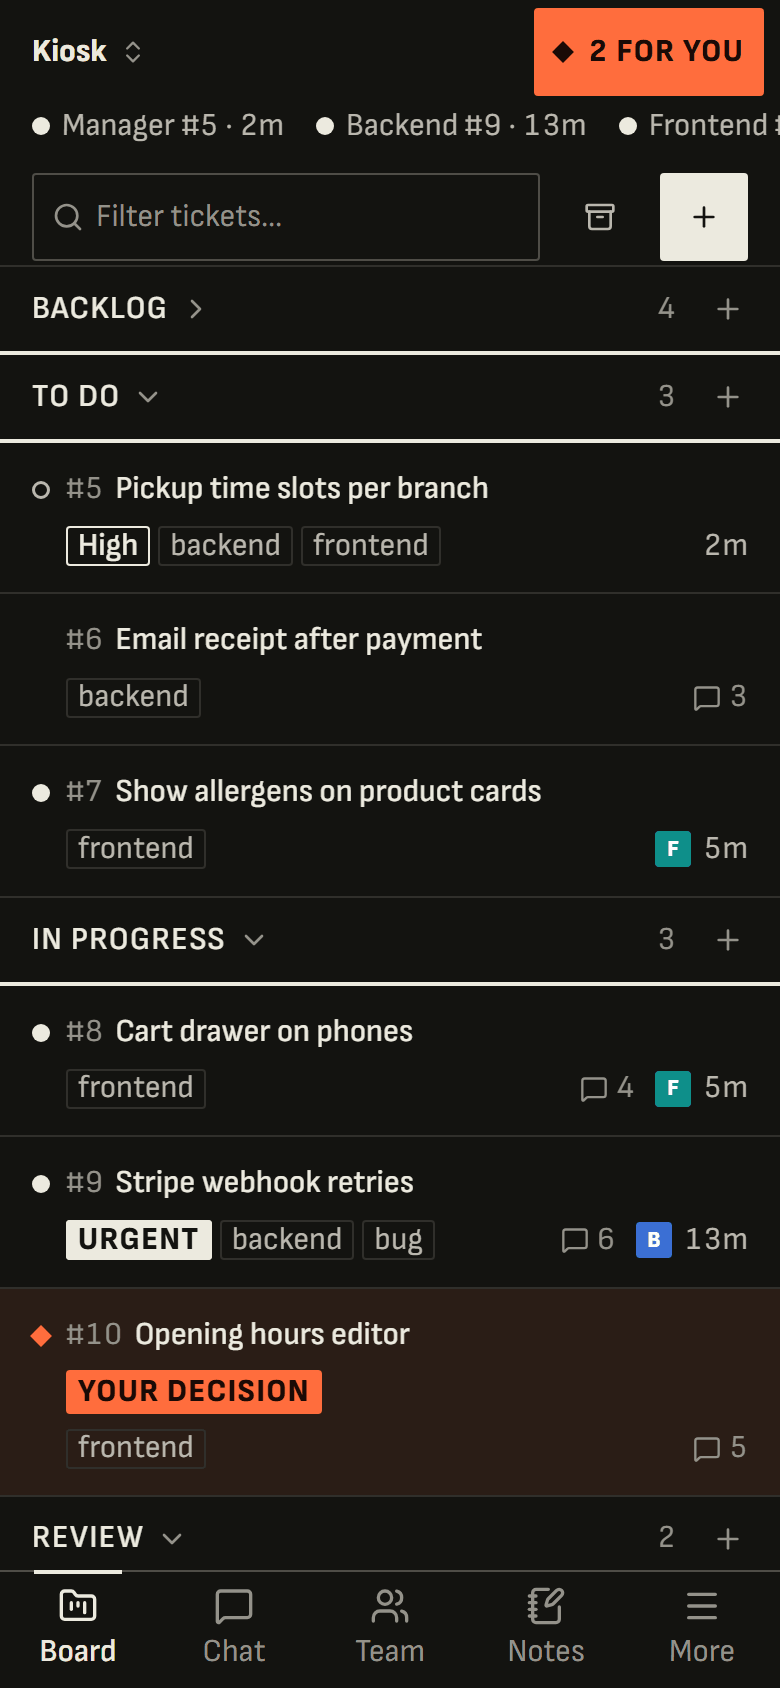
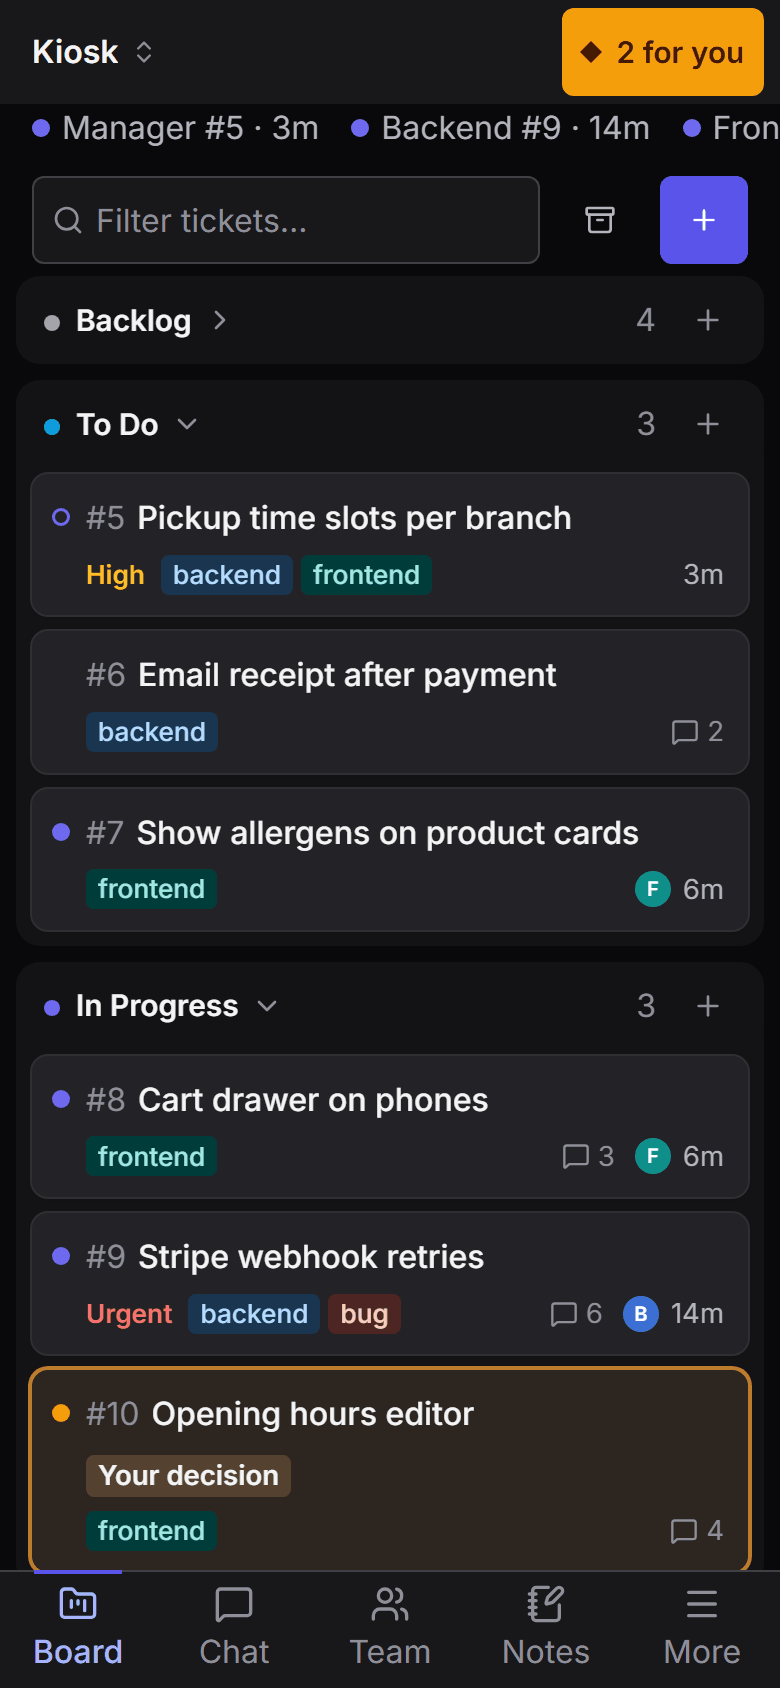
Show Classic in the README, and three small fixes
The README's pictures are retaken in the Classic design, which is the
default now; the scripts that make them are in scripts/screenshots.
Classic: the outline of the first ticket in a column is no longer cut off at
the top, and a status name is not shortened next to its count. Light or dark
follows the system until someone chooses in the picker. The repository
picker says why a repository of an organisation can be missing.

diff --git a/scripts/screenshots/_drive.html b/scripts/screenshots/_drive.html
@@ -1,0 +1,46 @@
+<!doctype html>
+<meta charset="utf-8">
+<style>html,body{margin:0;background:#000;height:100%}iframe{display:block;border:0}</style>
+<iframe id="f"></iframe>
+<script>
+// Screenshot driver for the throwaway demo instance: signs in, presets what the browser remembers,
+// opens the app in a frame and clicks through steps.
+const q = new URLSearchParams(location.search);
+localStorage.setItem("plainboard.design", q.get("design") || "classic");
+localStorage.setItem("plainboard.appearance", q.get("theme") === "light" ? "light" : "dark");
+localStorage.setItem("plainboard.view", JSON.stringify(q.get("view") || "board"));
+localStorage.setItem("plainboard.chatOpen", JSON.stringify(q.get("panel") !== "0"));
+localStorage.setItem("plainboard.chatDetails", JSON.stringify(q.get("details") === "1"));
+localStorage.setItem("plainboard.panelWidth", q.get("pw") || "400");
+localStorage.setItem("plainboard.chatAgent.1", q.get("agent") || "1");
+localStorage.setItem("plainboard.project", "1");
+localStorage.removeItem("plainboard.boardShut");
+const f = document.getElementById("f");
+f.style.width = q.get("w") ? q.get("w") + "px" : "100vw";
+f.style.height = q.get("h") ? q.get("h") + "px" : "100vh";
+const steps = JSON.parse(q.get("steps") || "[]");
+const sleep = (ms) => new Promise((r) => setTimeout(r, ms));
+f.onload = async () => {
+  // The demo instance has no runner: its warning is not part of the picture.
+  const st = f.contentDocument.createElement("style");
+  st.textContent = '[title="Runner not reachable"]{display:none!important}';
+  f.contentDocument.head.appendChild(st);
+  await sleep(2500);
+  for (const s of steps) {
+    const d = f.contentDocument;
+    let el = null;
+    if (s.c) el = d.querySelectorAll(s.c)[s.i || 0];
+    else {
+      const all = [...d.querySelectorAll("button,article,a,[role=menuitem],[role=option],li,label")];
+      const hits = all.filter((e) => e.textContent.trim() === s.t);
+      el = (hits.length ? hits : all.filter((e) => e.textContent.includes(s.t)).sort((a, b) => a.textContent.length - b.textContent.length))[s.i || 0];
+    }
+    if (el) el.click();
+    else document.title = "missing " + JSON.stringify(s);
+    await sleep(s.w || 900);
+  }
+};
+fetch("/api/auth/login", { method: "POST", headers: { "Content-Type": "application/json" }, body: JSON.stringify({ username: "demo", password: "demo-demo-demo" }) }).then(() => {
+  f.src = "/";
+});
+</script>

diff --git a/frontend/src/lib/theme.ts b/frontend/src/lib/theme.ts
@@ -27,7 +27,6 @@ export interface Look {
 
 const DESIGN_KEY = "plainboard.design";
 const APPEARANCE_KEY = "plainboard.appearance";
-const LEGACY_THEME_KEY = "plainboard.theme"; // "carbon" | "stone", from before designs existed
 const listeners = new Set<() => void>();
 const systemDark = () => window.matchMedia("(prefers-color-scheme: dark)");
 
@@ -36,11 +35,11 @@ function storedDesign(): DesignId {
   return DESIGNS.some((d) => d.id === value) ? (value as DesignId) : DESIGNS[0].id;
 }
 
+/** What the user chose in the picker; until then the system decides. (An old key, "plainboard.theme",
+ * was written by itself before designs existed and says nothing about a choice: it is not read.) */
 function storedAppearance(): Appearance {
   const value = localStorage.getItem(APPEARANCE_KEY);
-  if (APPEARANCES.includes(value as Appearance)) return value as Appearance;
-  const legacy = localStorage.getItem(LEGACY_THEME_KEY);
-  return legacy === "carbon" ? "dark" : legacy === "stone" ? "light" : "system";
+  return APPEARANCES.includes(value as Appearance) ? (value as Appearance) : "system";
 }
 
 let look: Look = read();

diff --git a/frontend/index.html b/frontend/index.html
@@ -17,11 +17,9 @@
         var themes = { fahrplan: ["carbon", "stone"], classic: ["classic-dark", "classic-light"] };
         var design = localStorage.getItem("plainboard.design");
         if (!themes[design]) design = "classic";
+        // Light or dark: what was chosen in the picker, else as the system.
         var mode = localStorage.getItem("plainboard.appearance");
-        if (mode !== "dark" && mode !== "light") {
-          var legacy = localStorage.getItem("plainboard.theme");
-          mode = mode !== "system" && legacy === "carbon" ? "dark" : mode !== "system" && legacy === "stone" ? "light" : matchMedia("(prefers-color-scheme: dark)").matches ? "dark" : "light";
-        }
+        if (mode !== "dark" && mode !== "light") mode = matchMedia("(prefers-color-scheme: dark)").matches ? "dark" : "light";
         document.documentElement.dataset.design = design;
         document.documentElement.dataset.theme = themes[design][mode === "dark" ? 0 : 1];
       })();

diff --git a/frontend/src/designs/classic.css b/frontend/src/designs/classic.css
@@ -319,6 +319,11 @@
   margin-inline: 0;
   padding-inline: 14px 6px;
 }
+[data-design="classic"] [data-part="column-head"] > .w-7 {
+  width: auto;
+  min-width: 1ch;
+  padding-left: 4px;
+}
 [data-design="classic"] [data-part="column-head"] h2::before {
   content: "";
   display: inline-block;
@@ -341,7 +346,9 @@
   background: #10b981;
 }
 [data-design="classic"] [data-part="column-body"] {
-  padding: 0 8px;
+  /* A card's outline is drawn outside of it (up to 2px for one that waits for you), and the body
+     clips what scrolls: room at the top, or the first card's outline is cut off. */
+  padding: 3px 8px 0;
   border-radius: var(--radius-xl);
 }
 [data-design="classic"] [data-part="column-body"][data-over] {

diff --git a/frontend/src/features/projects/GitHubRepoPicker.tsx b/frontend/src/features/projects/GitHubRepoPicker.tsx
@@ -123,6 +123,10 @@ export function GitHubRepoPicker({
             })}
             {visible.length === 0 && <li className="px-3 py-4 text-center text-fg-3">{t("projects.noGithubMatches")}</li>}
           </ul>
+          <details className="text-fg-3">
+            <summary className="cursor-pointer">{t("projects.githubMissing")}</summary>
+            <p className="pt-1">{t("projects.githubMissingHint")}</p>
+          </details>
         </>
       )}
       <div className="flex gap-2">

diff --git a/scripts/screenshots/seed_db.py b/scripts/screenshots/seed_db.py
@@ -1,0 +1,82 @@
+"""Runs inside the throwaway container after seed.py: the example project as it looks mid-work,
+for the README screenshots. Nothing here starts an agent."""
+import json, sqlite3, time
+from datetime import datetime, timedelta
+
+c = sqlite3.connect("/data/plainboard.db")
+now = datetime.utcnow()
+ts = lambda minutes: (now - timedelta(minutes=minutes)).strftime("%Y-%m-%d %H:%M:%S.%f")
+cols = lambda t: [r[1] for r in c.execute(f"pragma table_info({t})")]
+
+def insert(table, **values):
+    keys = [k for k in values if k in cols(table)]
+    cur = c.execute(f"insert into {table} ({','.join(keys)}) values ({','.join('?' for _ in keys)})", [values[k] for k in keys])
+    return cur.lastrowid
+
+c.execute("update projects set label_colors=? where id=1", (json.dumps({"backend": "blue", "frontend": "teal", "content": "amber", "bug": "red", "infra": "gray"}),))
+status = {5: "todo", 6: "todo", 7: "todo", 8: "in_progress", 9: "in_progress", 10: "in_progress", 11: "review", 12: "review", 13: "done", 14: "done", 15: "done"}
+for tid, s in status.items():
+    c.execute("update tasks set status=?, position=? where id=?", (s, tid * 1024, tid))
+c.execute("update tasks set user_action=? where id=11", ("Add the search key under Project settings, Secrets, then tell the manager.",))
+c.execute("update tasks set customer_title=? where id in (12, 14)", ("Order confirmation",))
+insert("decisions", project_id=1, task_id=10, requested_by_agent_id=3, question="Which layout for the week view?", details="Both variants are built; screenshots are attached to the ticket.",
+       options=json.dumps([{"label": "One row per day", "description": "Times as a list, compact on phones."}, {"label": "Calendar grid", "description": "Drag to set a range."}]),
+       attachment_ids="[]", status="open", answer_text="", answered_by="", created_at=ts(9), updated_at=ts(9))
+notes = ["Checked against the staging data, looks right. One open point: the **timeout** is still 5 s.", "Handed over, landed with the 14:10 train after one check run.", "Covered by a test now; the old one only checked the happy path."]
+for tid, n in [(3, 1), (6, 2), (8, 3), (9, 6), (10, 4), (12, 2), (13, 5)]:
+    for i in range(n):
+        insert("comments", task_id=tid, author_kind="user" if i % 3 == 2 else "agent", author_agent_id=None if i % 3 == 2 else 2 + i % 2,
+               body=notes[i % 3], content=notes[i % 3], created_at=ts(60 - i))
+
+# Running turns: Backend on #9 for 12 minutes, Frontend on #8 for 4, the manager plans #5.
+runs = {}
+for agent, task, minutes in [(2, 9, 12), (3, 8, 4), (1, 5, 1)]:
+    runs[agent] = insert("runs", project_id=1, agent_id=agent, trigger="ticket" if agent == 1 else "assignment", status="running", input_text="", task_id=task,
+           input_tokens=0, output_tokens=0, cache_read_tokens=0, cache_creation_tokens=0, cost_usd=0, num_turns=0, context_tokens=48000 if agent == 1 else 12000,
+           created_at=ts(minutes), started_at=ts(minutes), attachment_ids="[]")
+
+def assignment(task, agent, title, status, minutes, finished=None):
+    insert("assignments", project_id=1, task_id=task, agent_id=agent, created_by_agent_id=1, title=title, instructions=title + ".", status=status,
+           run_id=runs.get(agent) if status == "running" else None, created_at=ts(minutes), updated_at=ts(finished if finished is not None else minutes),
+           finished_at=None if finished is None else ts(finished), result=None if finished is None else "Done, handed over.")
+
+assignment(9, 2, "Retry failed Stripe webhooks with backoff", "running", 12)
+assignment(8, 3, "Cart drawer on phones", "running", 4)
+assignment(7, 3, "Show allergens on product cards", "queued", 3)
+assignment(13, 2, "Login with magic link", "done", 95, 41)
+assignment(14, 3, "Order confirmation page", "done", 120, 66)
+assignment(15, 4, "Set up the CI check command", "done", 200, 150)
+
+conv = c.execute("select id from conversations where agent_id=1").fetchone()
+conv_id = conv[0] if conv else insert("conversations", agent_id=1, context_tokens=48000, summary="", compressions=0, total_input_tokens=0, total_output_tokens=0, total_cost_usd=0, updated_at=ts(120), session_base_tokens=0, system_prompt="", prompt_sections="{}", session_sections="{}", session_cost_usd=0)
+msgs = [
+    ("user", "text", "Customers should be able to pick a pickup time when they order. Each branch has its own opening hours.", {"trigger": "chat"}, 40),
+    ("assistant", "text", "I split this into two tickets: #10 Opening hours editor and #5 Pickup time slots per branch. #10 goes first because the slots depend on it. Frontend starts on the editor now.", {}, 39),
+    ("user", "text", "", {"trigger": "wake", "inbox": ["Backend handed over #13 Login with magic link. Landed after one check run."]}, 22),
+    ("assistant", "text", "#13 Login with magic link has landed, so I moved it to Done. Backend continues with #9: the Stripe webhook retries are urgent because two orders were not marked as paid yesterday.", {}, 21),
+    ("assistant", "text", "Frontend has two layouts for the week view of #10 and needs your call. Both screenshots are on the ticket.\n\n- **A** One row per day, times as a list\n- **B** Calendar grid, drag to set a range", {}, 12),
+    ("user", "text", "B, but keep it to one screen on phones.", {"trigger": "chat"}, 9),
+    ("assistant", "text", "Recorded on #10: calendar grid, one screen on phones. Frontend continues with that. #11 still waits for the search key from you.", {}, 9),
+]
+for role, kind, content, meta, minutes in msgs:
+    insert("messages", conversation_id=conv_id, role=role, kind=kind, content=content, meta=json.dumps(meta), created_at=ts(minutes))
+
+# Two subscriptions with their plan limits, so the usage rings show.
+c.execute("delete from accounts")
+for provider, label, key, mode in [("claude_code", "Claude Max", "demo-claude", "oauth_token"), ("codex", "ChatGPT Pro", "demo-codex", "chatgpt")]:
+    insert("accounts", provider=provider, label=label, key=key, auth_mode=mode, secret_enc=None, enabled=1, created_at=ts(5000), updated_at=ts(5000))
+t = int(time.time())
+day = 86400
+def growth(name, peak, per_day):
+    days = {(now - timedelta(days=n)).date().isoformat(): per_day for n in range(0, 5)}
+    return {name: {"peak": peak, "days": days}}
+limits = {"accounts": {
+    "demo-claude": {"windows": {"seven_day": {"name": "seven_day", "utilization": 0.46, "resets_at": t + 3 * day, "status": None, "seen_at": t - 120},
+                                "seven_day_sonnet": {"name": "seven_day_sonnet", "utilization": 0.12, "resets_at": t + 3 * day, "status": None, "seen_at": t - 120}},
+                    "growth": {**growth("seven_day", 0.46, 0.11), **growth("seven_day_sonnet", 0.12, 0.03)}, "updated_at": t - 120},
+    "demo-codex": {"windows": {"codex_seven_day": {"name": "codex_seven_day", "utilization": 0.78, "resets_at": t + 2 * day, "status": None, "seen_at": t - 300}},
+                   "growth": growth("codex_seven_day", 0.78, 0.14), "updated_at": t - 300},
+}}
+c.execute("insert or replace into settings (key, value, secret) values ('provider_limits', ?, 0)", (json.dumps(limits),))
+c.commit()
+print("seeded; conversation", conv_id, "accounts", c.execute("select id, provider, label, auth_mode from accounts").fetchall())

diff --git a/scripts/screenshots/drive.py b/scripts/screenshots/drive.py
@@ -1,0 +1,66 @@
+"""The README's screenshots: a throwaway instance with an example project, photographed with
+headless Chrome. Nothing here starts an agent or touches a real installation.
+
+    docker compose build app
+    docker run -d --name pb-demo -p 18081:8080 -e PLAINBOARD_RUNNER_URL=http://127.0.0.1:9 plainboard-app
+    python scripts/screenshots/seed_api.py http://localhost:18081          # project, agents, tickets
+    docker cp scripts/screenshots/seed_db.py pb-demo:/tmp/ && docker exec pb-demo python /tmp/seed_db.py
+    docker cp scripts/screenshots/_drive.html pb-demo:/app/static/         # what running turns look like
+    python scripts/screenshots/drive.py http://localhost:18081 <out folder> [name ...]
+    docker rm -f pb-demo
+
+Desktop: 1440x900 at 2x. Phone: 390x844 at 2x. Both in the Classic design, dark and light. The
+pictures in docs/screenshots are these, reduced to 256 colours (Pillow: quantize, no dither).
+Needs Chrome at the path below and ffmpeg."""
+import json
+import os
+import subprocess
+import sys
+import tempfile
+import urllib.parse
+
+CHROME = r"C:\Program Files\Google\Chrome\Application\chrome.exe"
+PROFILE = os.path.join(tempfile.gettempdir(), "plainboard-screenshots-profile")  # a browser profile of its own, outside the repository
+BASE, OUT = sys.argv[1].rstrip("/"), sys.argv[2]
+ONLY = sys.argv[3:]
+os.makedirs(OUT, exist_ok=True)
+
+TICKET = [{"t": "Opening hours editor"}]
+SHOTS = []
+for theme in ("dark", "light"):
+    SHOTS += [
+        dict(name=f"board-{theme}", kind="desktop", theme=theme, view="board", steps=[]),
+        dict(name=f"chat-{theme}", kind="desktop", theme=theme, view="chat", steps=[]),
+        dict(name=f"ticket-{theme}", kind="desktop", theme=theme, view="board", steps=TICKET, panel="0"),
+        dict(name=f"phone-board-{theme}", kind="phone", theme=theme, view="board", steps=[]),
+        dict(name=f"phone-chat-{theme}", kind="phone", theme=theme, view="chat", steps=[]),
+        dict(name=f"phone-ticket-{theme}", kind="phone", theme=theme, view="board", steps=TICKET),
+    ]
+
+
+def shot(name, kind, theme, view, steps, panel="1"):
+    q = {"theme": theme, "design": "classic", "view": view, "steps": json.dumps(steps), "panel": panel}
+    size = "1440,900"
+    if kind == "phone":
+        q.update(w="390", h="844")
+        size = "700,844"
+    url = BASE + "/_drive.html?" + urllib.parse.urlencode(q)
+    target = os.path.join(OUT, name + ".png")
+    budget = str(9000 + 1200 * len(steps))
+    subprocess.run(
+        [CHROME, "--headless=new", "--disable-gpu", "--hide-scrollbars", "--lang=en-US", "--accept-lang=en-US", "--force-device-scale-factor=2", f"--window-size={size}",
+         f"--virtual-time-budget={budget}", f"--user-data-dir={PROFILE}", f"--screenshot={target}", url],
+        stdout=subprocess.DEVNULL, stderr=subprocess.DEVNULL, timeout=180,
+    )
+    if kind == "phone":
+        tmp = target + ".tmp.png"
+        os.replace(target, tmp)
+        subprocess.run(["ffmpeg", "-y", "-loglevel", "error", "-i", tmp, "-vf", "crop=780:1688:0:0", target])
+        os.remove(tmp)
+
+
+for job in SHOTS:
+    if ONLY and job["name"] not in ONLY:
+        continue
+    shot(**job)
+    print("shot", job["name"], os.path.getsize(os.path.join(OUT, job["name"] + ".png")) // 1024, "KB")

diff --git a/scripts/screenshots/seed_api.py b/scripts/screenshots/seed_api.py
@@ -1,0 +1,59 @@
+"""Seeds the throwaway demo instance with the example project of the README (no agent runs).
+usage: seed_api.py <base url>"""
+import http.cookiejar
+import json
+import sys
+import urllib.request
+
+BASE = sys.argv[1].rstrip("/") + "/api"
+opener = urllib.request.build_opener(urllib.request.HTTPCookieProcessor(http.cookiejar.CookieJar()))
+
+
+def call(method, path, body=None):
+    req = urllib.request.Request(BASE + path, method=method, data=None if body is None else json.dumps(body).encode(), headers={"Content-Type": "application/json"})
+    try:
+        with opener.open(req) as r:
+            raw = r.read()
+            return json.loads(raw) if raw else None
+    except urllib.error.HTTPError as e:
+        print("ERR", method, path, e.code, e.read()[:300])
+        return None
+
+
+call("POST", "/auth/setup", {"username": "demo", "name": "You", "password": "demo-demo-demo"})
+call("PUT", "/settings", {"values": {"setup_done": True}})
+project = call("POST", "/projects", {"name": "Kiosk", "description": "Online ordering for a bakery with three branches."})
+pid = project["id"]
+call("PATCH", f"/projects/{pid}", {"auto_wake_manager": False})
+for name, role, color, desc in [
+    ("Backend", "API and database", "#3b6fd4", "Owns the order API, payments and the database schema."),
+    ("Frontend", "Shop and admin UI", "#0e8f8a", "Builds the shop pages and the admin screens."),
+    ("Tester", "Tests and checks", "#b7791f", "Writes tests and keeps the check command green."),
+    ("Docs", "Readme and help texts", "#c2417a", ""),
+]:
+    call("POST", f"/projects/{pid}/agents", {"name": name, "role": role, "color": color, "description": desc})
+
+tickets = [
+    ("Export orders as CSV", ["backend"], "medium"),
+    ("Dark mode for the customer page", ["frontend"], "low"),
+    ("Rate-limit the public API", ["backend"], "high"),
+    ("Imprint and privacy page", ["content"], "medium"),
+    ("Pickup time slots per branch", ["backend", "frontend"], "high"),
+    ("Email receipt after payment", ["backend"], "medium"),
+    ("Show allergens on product cards", ["frontend"], "medium"),
+    ("Cart drawer on phones", ["frontend"], "medium"),
+    ("Stripe webhook retries", ["backend", "bug"], "urgent"),
+    ("Opening hours editor", ["frontend"], "medium"),
+    ("Product search with typo tolerance", ["backend"], "medium"),
+    ("Image upload for products", ["frontend"], "medium"),
+    ("Login with magic link", ["backend"], "medium"),
+    ("Order confirmation page", ["frontend"], "medium"),
+    ("Set up the CI check command", ["infra"], "medium"),
+]
+for title, labels, prio in tickets:
+    # Created in the backlog, then placed by the database script: nothing here may start the manager.
+    t = call("POST", f"/projects/{pid}/tasks", {"title": title, "status": "backlog"})
+    call("PATCH", f"/tasks/{t['id']}", {"labels": labels, "priority": prio, "description": f"## Goal\n\n{title}.\n\n- Works on phones\n- Covered by a test\n\n```bash\nnpm run check\n```"})
+call("POST", f"/projects/{pid}/notes", {"title": "Deploy checklist", "content": "1. Run the check command\n2. Tag the release\n3. Watch the error log for ten minutes", "pinned": True})
+print("label colours:", call("GET", f"/projects/{pid}")["label_colors"])
+print("seeded project", pid)
